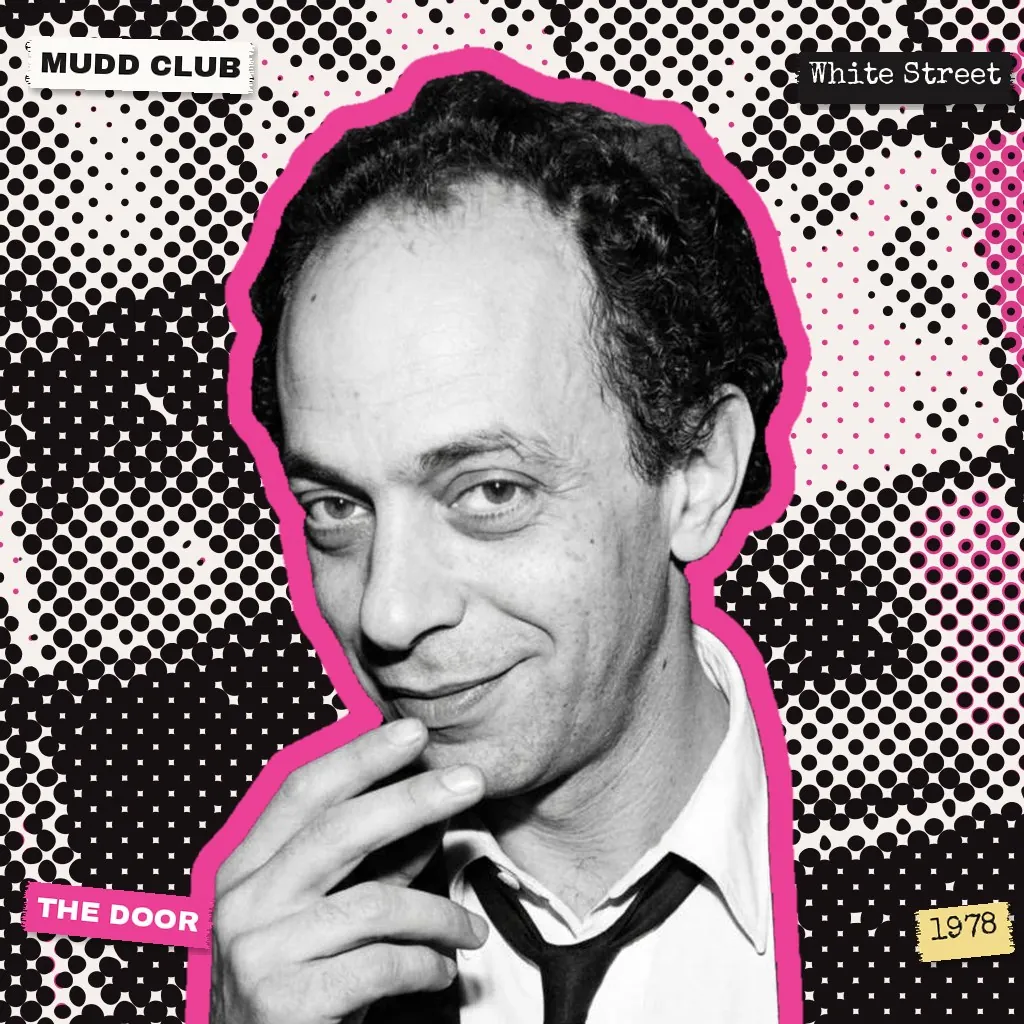
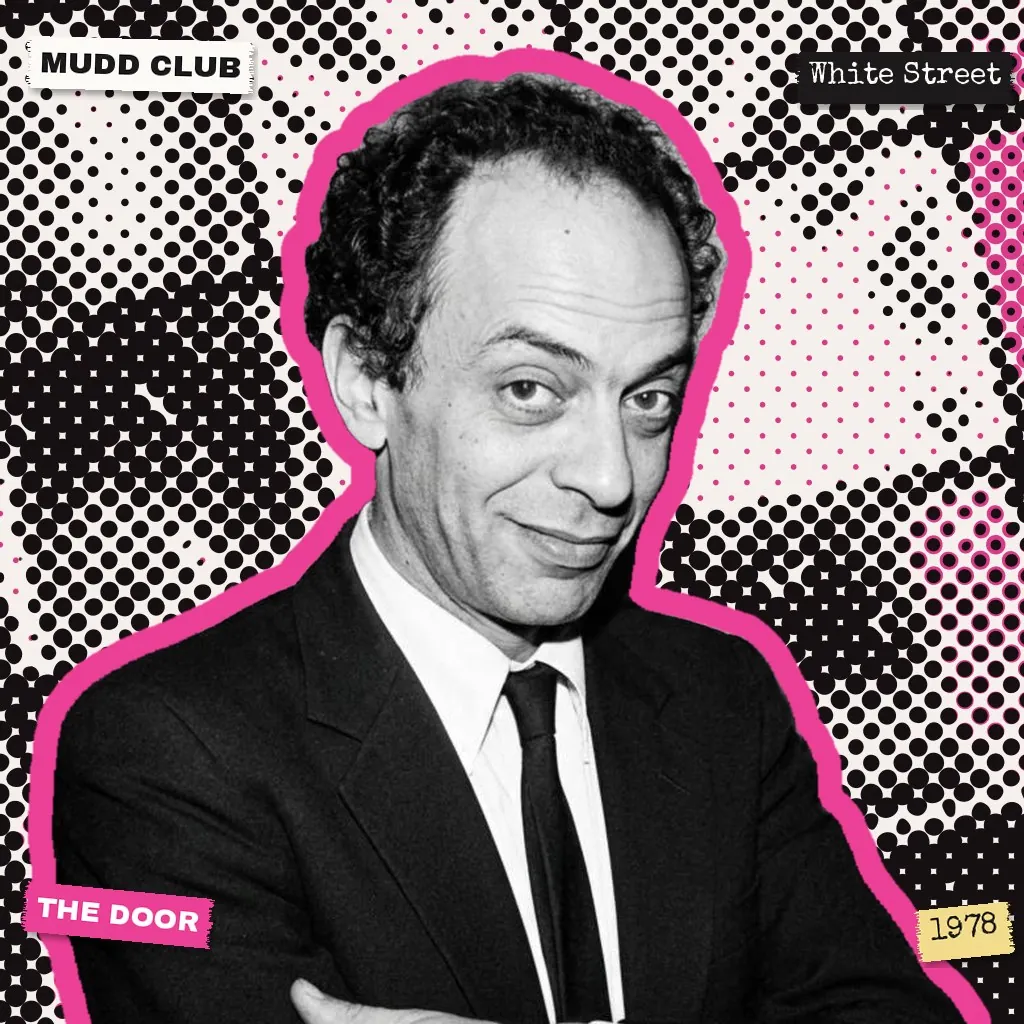
Steve Mass: polaroid and header option B (Lisa's pick)
Claude-Session: https://claude.ai/code/session_0192FespqusBPU85qQTESFDW

diff --git a/src/data/person-portraits.ts b/src/data/person-portraits.ts
@@ -977,6 +977,6 @@ export const PERSON_PORTRAITS: Record<string, PersonPortrait> = {
   "william-f-buckley-jr": { photo: williamFBuckleyJrPhoto, polaroid: williamFBuckleyJrPolaroid, focus: "28%", credit: "Portrait after a photo by SPC 5 Bert Goulait, US Military, 1985 (public domain), in our photocopy style" },
   "yul-brynner": { photo: yulBrynnerPhoto, polaroid: yulBrynnerPolaroid, focus: "28%", credit: "Portrait after a photo by an unknown photographer, 1960 (public domain), in our photocopy style" },
   "billy-beyond": { photo: billyBeyondPhoto, polaroid: billyBeyondPolaroid, focus: "30%", credit: "Illustration made with Gemini, not a photo" },
-  // Steve Mass (Lisa, 21 Nov 2026: "let's do steve mass page"; no free photo exists, she picked a realistic Gemini portrait)
+  // Steve Mass (Lisa, 21 Nov 2026: "let's do steve mass page"; no free photo exists, she picked a realistic Gemini portrait, option B at the club door)
   "steve-mass": { photo: steveMassPhoto, polaroid: steveMassPolaroid, focus: "20%", credit: "Illustration made with Gemini, not a photo" },
 };
